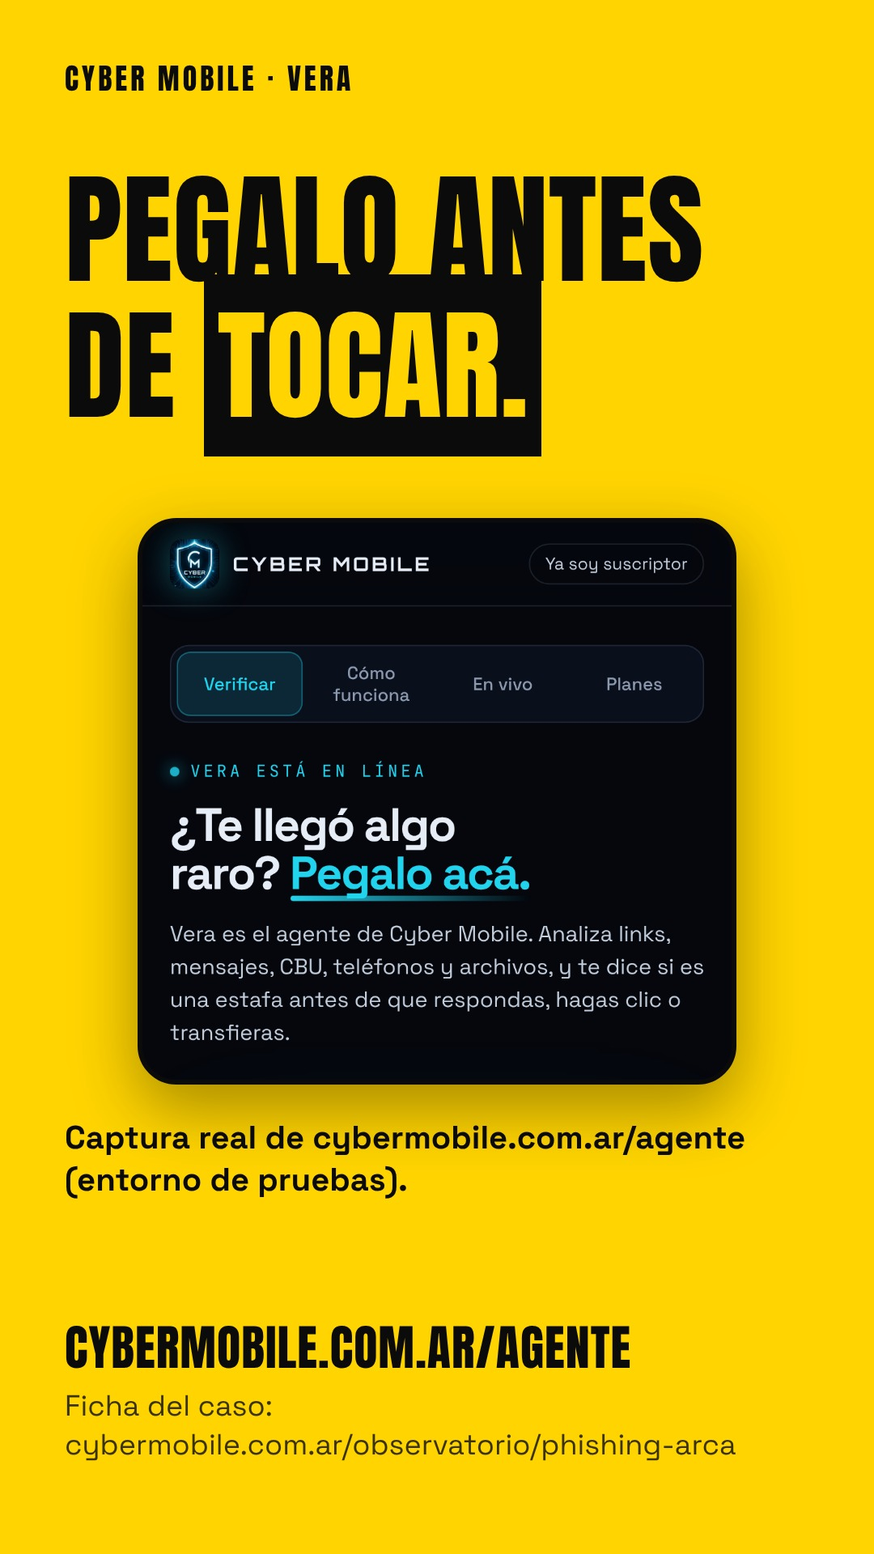
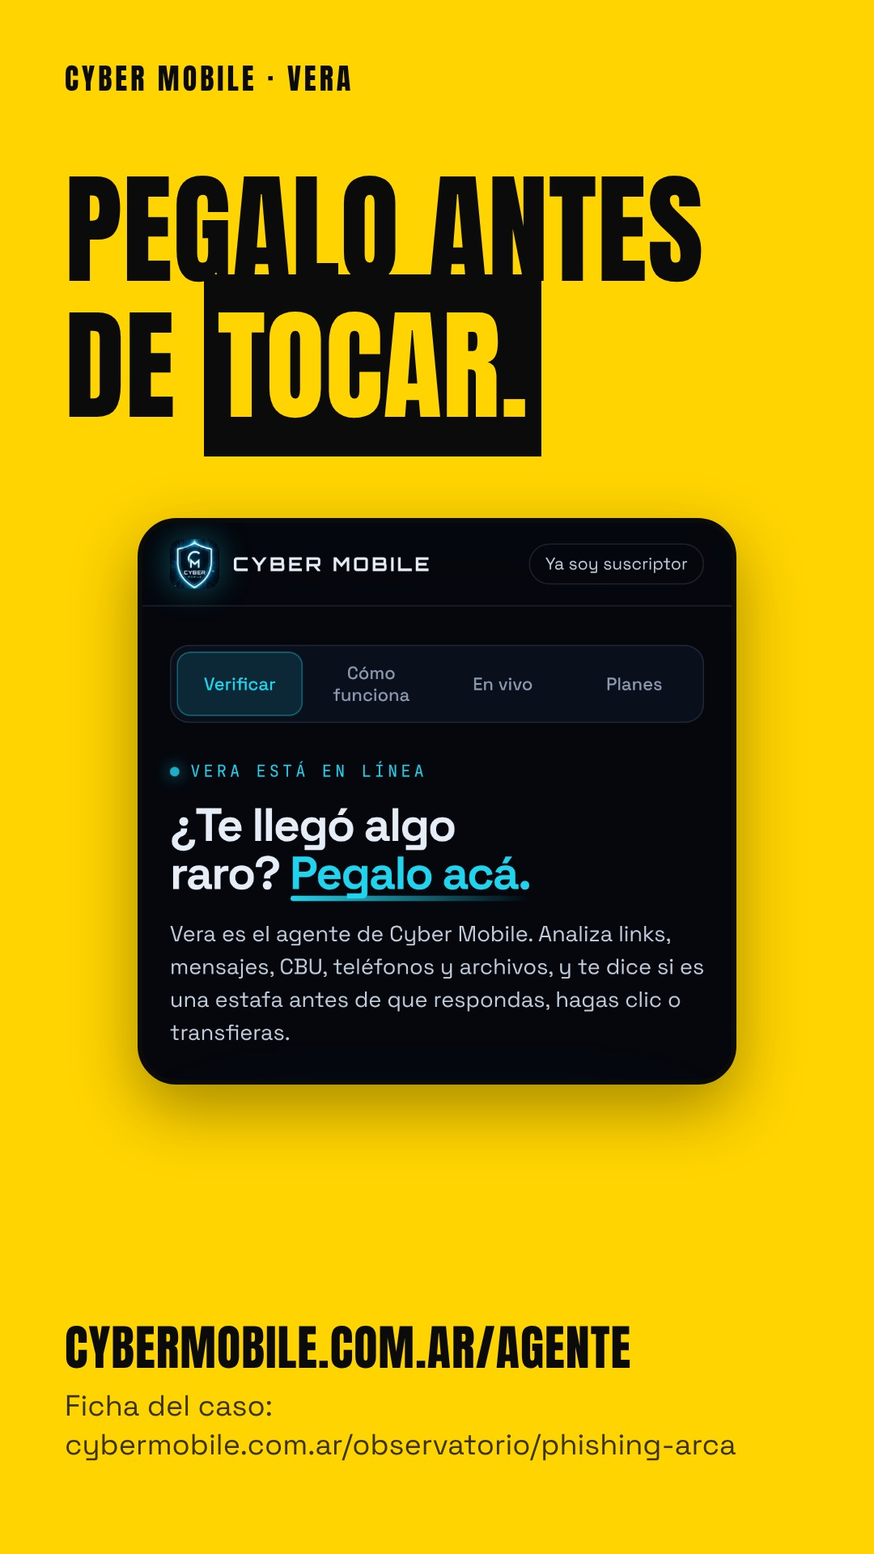
Redes: propuestas v3 con imágenes reales y corrección del set Qué es Vera

Changed region(s): [[0.0611, 0.7188, 0.8556, 0.7812]]

diff --git a/scripts/redes/propuestas/2026-11-20-v3/html/arca-f2.html b/scripts/redes/propuestas/2026-11-20-v3/html/arca-f2.html
@@ -1,0 +1,19 @@
+<html><head><meta charset=utf-8><style>
+@font-face{font-family:AN;src:url(/home/user/Cyber-Mobile/tarjetas/fuentes/Anton-Regular.ttf)}
+@font-face{font-family:SG;font-weight:700;src:url(/home/user/Cyber-Mobile/tarjetas/fuentes/SpaceGrotesk-Bold.ttf)}
+@font-face{font-family:SG;font-weight:400;src:url(/home/user/Cyber-Mobile/tarjetas/fuentes/SpaceGrotesk-Regular.ttf)}
+*{box-sizing:border-box;margin:0}body{width:1080px;height:1920px;overflow:hidden;font-family:SG,sans-serif;position:relative}
+.h{font-family:AN;text-transform:uppercase;line-height:1;letter-spacing:.5px}
+.pad{position:absolute;left:80px;right:80px}
+.brand{position:absolute;left:80px;top:70px;font-family:AN;font-size:34px;letter-spacing:4px}
+.tag{display:inline-block;font-family:AN;font-size:42px;padding:10px 26px;background:#ff2d1f;color:#fff;transform:rotate(-2deg);text-transform:uppercase}
+.mk{background:linear-gradient(transparent 55%,#ffd400 55%)}
+.src{font-size:29px;line-height:1.35}
+.url{font-family:AN;font-size:54px;letter-spacing:1px}
+.img{position:absolute;box-shadow:0 24px 70px rgba(0,0,0,.35);border:5px solid #0b0b0b;background:#fff}
+.img img{display:block;width:100%}
+.mkb{position:absolute;border:8px solid #ff2d1f;border-radius:22px;transform:rotate(-.8deg)}
+.mkl{position:absolute;font-family:AN;font-size:40px;background:#ff2d1f;color:#fff;padding:6px 20px;text-transform:uppercase;transform:rotate(-2deg);white-space:nowrap}
+body{background:#0b0b0b;color:#f1ebdf}</style></head><body><div class=brand>CYBER MOBILE · VERA</div><div class="pad" style="top:190px"><span class=tag style="background:#ffd400;color:#0b0b0b">Lo que mira Vera</span><div class=h style="font-size:104px;margin-top:30px">TRES SEÑALES<br><span style="color:#ffd400">EN UN SOLO MAIL.</span></div></div>
+ <div class="img" style="top:620px;left:190px;width:700px;height:1057px"><img src="/home/user/Cyber-Mobile/scripts/redes/propuestas/2026-11-20-v3/real/arca-mail.png"><div class=mkb style="left:14.364217252396166px;top:329.6996805111821px;width:675.7444089456869px;height:289.9616613418531px"></div><div class=mkl style="left:20px;top:303.6996805111821px;">Cobra “aranceles” por mail</div><div class=mkb style="left:14.364217252396166px;top:624.9073482428115px;width:675.7444089456869px;height:109.92971246006391px"></div><div class=mkl style="left:20px;top:598.9073482428115px;left:auto;right:10px;">Pide foto del DNI</div><div class=mkb style="left:14.364217252396166px;top:736.7284345047924px;width:675.7444089456869px;height:83.0926517571885px"></div><div class=mkl style="left:20px;top:710.7284345047924px;">Apura: 3 días</div></div>
+ <div class="pad src" style="bottom:95px;font-size:28px;color:#f1ebdf">ARCA lo dijo en sus redes: “Nunca solicitamos pagos ni datos personales por correo electrónico” (@ARCA_informa, según Infobae 05/11/2026).</div></body></html>

diff --git a/scripts/redes/propuestas/2026-11-20-v3/html/hotel-f2.html b/scripts/redes/propuestas/2026-11-20-v3/html/hotel-f2.html
@@ -1,0 +1,19 @@
+<html><head><meta charset=utf-8><style>
+@font-face{font-family:AN;src:url(/home/user/Cyber-Mobile/tarjetas/fuentes/Anton-Regular.ttf)}
+@font-face{font-family:SG;font-weight:700;src:url(/home/user/Cyber-Mobile/tarjetas/fuentes/SpaceGrotesk-Bold.ttf)}
+@font-face{font-family:SG;font-weight:400;src:url(/home/user/Cyber-Mobile/tarjetas/fuentes/SpaceGrotesk-Regular.ttf)}
+*{box-sizing:border-box;margin:0}body{width:1080px;height:1920px;overflow:hidden;font-family:SG,sans-serif;position:relative}
+.h{font-family:AN;text-transform:uppercase;line-height:1;letter-spacing:.5px}
+.pad{position:absolute;left:80px;right:80px}
+.brand{position:absolute;left:80px;top:70px;font-family:AN;font-size:34px;letter-spacing:4px}
+.tag{display:inline-block;font-family:AN;font-size:42px;padding:10px 26px;background:#ff2d1f;color:#fff;transform:rotate(-2deg);text-transform:uppercase}
+.mk{background:linear-gradient(transparent 55%,#ffd400 55%)}
+.src{font-size:29px;line-height:1.35}
+.url{font-family:AN;font-size:54px;letter-spacing:1px}
+.img{position:absolute;box-shadow:0 24px 70px rgba(0,0,0,.35);border:5px solid #0b0b0b;background:#fff}
+.img img{display:block;width:100%}
+.mkb{position:absolute;border:8px solid #ff2d1f;border-radius:22px;transform:rotate(-.8deg)}
+.mkl{position:absolute;font-family:AN;font-size:40px;background:#ff2d1f;color:#fff;padding:6px 20px;text-transform:uppercase;transform:rotate(-2deg);white-space:nowrap}
+body{background:#f1ebdf;color:#0b0b0b}</style></head><body><div class=brand>CYBER MOBILE · VERA</div><div class="pad" style="top:190px"><span class=tag>Lo que mira Vera</span><div class=h style="font-size:104px;margin-top:30px">NOMBRE, FOTOS Y<br><span class=mk>PEDIDO DE PLATA.</span></div></div>
+ <div class="img" style="top:560px;left:190px;width:700px;height:906px"><img src="/home/user/Cyber-Mobile/scripts/redes/propuestas/2026-11-20-v3/real/hotel-instagram.png"><div class=mkb style="left:129.68115942028984px;top:73.15942028985508px;width:363.82608695652175px;height:73.97101449275362px"></div><div class=mkl style="left:20px;top:149.1304347826087px;left:auto;right:10px;">Usurpa el nombre</div><div class=mkb style="left:28.231884057971016px;top:365.18840579710144px;width:631.9420289855072px;height:92.08695652173913px"></div><div class=mkl style="left:20px;top:459.27536231884056px;">Copia dirección y fotos</div></div>
+ <div class="pad src" style="bottom:70px;font-size:28px">Según La Nación, pedían transferir $500.000 como seña para reservar durante la visita papal. El establecimiento real confirmó la suplantación.</div></body></html>

diff --git a/scripts/redes/propuestas/2026-11-20-v3/html/google-f2.html b/scripts/redes/propuestas/2026-11-20-v3/html/google-f2.html
@@ -1,0 +1,19 @@
+<html><head><meta charset=utf-8><style>
+@font-face{font-family:AN;src:url(/home/user/Cyber-Mobile/tarjetas/fuentes/Anton-Regular.ttf)}
+@font-face{font-family:SG;font-weight:700;src:url(/home/user/Cyber-Mobile/tarjetas/fuentes/SpaceGrotesk-Bold.ttf)}
+@font-face{font-family:SG;font-weight:400;src:url(/home/user/Cyber-Mobile/tarjetas/fuentes/SpaceGrotesk-Regular.ttf)}
+*{box-sizing:border-box;margin:0}body{width:1080px;height:1920px;overflow:hidden;font-family:SG,sans-serif;position:relative}
+.h{font-family:AN;text-transform:uppercase;line-height:1;letter-spacing:.5px}
+.pad{position:absolute;left:80px;right:80px}
+.brand{position:absolute;left:80px;top:70px;font-family:AN;font-size:34px;letter-spacing:4px}
+.tag{display:inline-block;font-family:AN;font-size:42px;padding:10px 26px;background:#ff2d1f;color:#fff;transform:rotate(-2deg);text-transform:uppercase}
+.mk{background:linear-gradient(transparent 55%,#ffd400 55%)}
+.src{font-size:29px;line-height:1.35}
+.url{font-family:AN;font-size:54px;letter-spacing:1px}
+.img{position:absolute;box-shadow:0 24px 70px rgba(0,0,0,.35);border:5px solid #0b0b0b;background:#fff}
+.img img{display:block;width:100%}
+.mkb{position:absolute;border:8px solid #ff2d1f;border-radius:22px;transform:rotate(-.8deg)}
+.mkl{position:absolute;font-family:AN;font-size:40px;background:#ff2d1f;color:#fff;padding:6px 20px;text-transform:uppercase;transform:rotate(-2deg);white-space:nowrap}
+body{background:#0b0b0b;color:#f1ebdf}</style></head><body><div class=brand>CYBER MOBILE · VERA</div><div class="pad" style="top:190px"><span class=tag style="background:#ffd400;color:#0b0b0b">Lo que mira Vera</span><div class=h style="font-size:104px;margin-top:30px">EL BOTÓN<br><span style="color:#ffd400">ES LA TRAMPA.</span></div></div>
+ <div class="img" style="top:560px;left:100px;width:880px;height:597px"><img src="/home/user/Cyber-Mobile/scripts/redes/propuestas/2026-11-20-v3/real/google-mail.png"><div class=mkb style="left:260.47457627118644px;top:484.20338983050846px;width:359.0508474576271px;height:93.55932203389831px"></div><div class=mkl style="left:60px;top:458.20338983050846px;">Lleva a una web falsa</div></div>
+ <div style="position:absolute;left:80px;right:80px;top:1250px;font-size:46px;line-height:1.3;font-weight:700">Simula un aviso de seguridad, apura a “comprobar actividad” y, según la nota, termina en una página que imita a Google para robar usuario y contraseña.</div></body></html>

diff --git a/scripts/redes/propuestas/2026-11-20-v3/html/hotel-f3.html b/scripts/redes/propuestas/2026-11-20-v3/html/hotel-f3.html
@@ -1,0 +1,19 @@
+<html><head><meta charset=utf-8><style>
+@font-face{font-family:AN;src:url(/home/user/Cyber-Mobile/tarjetas/fuentes/Anton-Regular.ttf)}
+@font-face{font-family:SG;font-weight:700;src:url(/home/user/Cyber-Mobile/tarjetas/fuentes/SpaceGrotesk-Bold.ttf)}
+@font-face{font-family:SG;font-weight:400;src:url(/home/user/Cyber-Mobile/tarjetas/fuentes/SpaceGrotesk-Regular.ttf)}
+*{box-sizing:border-box;margin:0}body{width:1080px;height:1920px;overflow:hidden;font-family:SG,sans-serif;position:relative}
+.h{font-family:AN;text-transform:uppercase;line-height:1;letter-spacing:.5px}
+.pad{position:absolute;left:80px;right:80px}
+.brand{position:absolute;left:80px;top:70px;font-family:AN;font-size:34px;letter-spacing:4px}
+.tag{display:inline-block;font-family:AN;font-size:42px;padding:10px 26px;background:#ff2d1f;color:#fff;transform:rotate(-2deg);text-transform:uppercase}
+.mk{background:linear-gradient(transparent 55%,#ffd400 55%)}
+.src{font-size:29px;line-height:1.35}
+.url{font-family:AN;font-size:54px;letter-spacing:1px}
+.img{position:absolute;box-shadow:0 24px 70px rgba(0,0,0,.35);border:5px solid #0b0b0b;background:#fff}
+.img img{display:block;width:100%}
+.mkb{position:absolute;border:8px solid #ff2d1f;border-radius:22px;transform:rotate(-.8deg)}
+.mkl{position:absolute;font-family:AN;font-size:40px;background:#ff2d1f;color:#fff;padding:6px 20px;text-transform:uppercase;transform:rotate(-2deg);white-space:nowrap}
+body{background:#19e6c4;color:#0b0b0b}</style></head><body><div class=brand>CYBER MOBILE · VERA</div><div class="pad" style="top:190px"><div class=h style="font-size:150px">ANTES DE<br>TRANSFERIR,<br>VERIFICÁ.</div><div style="font-size:48px;line-height:1.3;font-weight:700;margin-top:50px">Confirmá el alojamiento por el sitio y teléfono oficiales, y no pagues una seña a una cuenta de un tercero.</div>
+ <div style="font-size:48px;line-height:1.3;font-weight:700;margin-top:46px;border-top:8px solid #0b0b0b;padding-top:34px">Pegá el perfil o el link en Vera y mirá qué encuentra.</div></div>
+ <div class="pad url" style="bottom:200px;font-size:62px">CYBERMOBILE.COM.AR/AGENTE</div><div class="pad src" style="bottom:90px;font-size:34px;font-weight:700">Modalidad: cybermobile.com.ar/observatorio/alquiler-inexistente</div></body></html>

diff --git a/scripts/redes/propuestas/2026-11-20-v3/html/arca-f3.html b/scripts/redes/propuestas/2026-11-20-v3/html/arca-f3.html
@@ -1,0 +1,19 @@
+<html><head><meta charset=utf-8><style>
+@font-face{font-family:AN;src:url(/home/user/Cyber-Mobile/tarjetas/fuentes/Anton-Regular.ttf)}
+@font-face{font-family:SG;font-weight:700;src:url(/home/user/Cyber-Mobile/tarjetas/fuentes/SpaceGrotesk-Bold.ttf)}
+@font-face{font-family:SG;font-weight:400;src:url(/home/user/Cyber-Mobile/tarjetas/fuentes/SpaceGrotesk-Regular.ttf)}
+*{box-sizing:border-box;margin:0}body{width:1080px;height:1920px;overflow:hidden;font-family:SG,sans-serif;position:relative}
+.h{font-family:AN;text-transform:uppercase;line-height:1;letter-spacing:.5px}
+.pad{position:absolute;left:80px;right:80px}
+.brand{position:absolute;left:80px;top:70px;font-family:AN;font-size:34px;letter-spacing:4px}
+.tag{display:inline-block;font-family:AN;font-size:42px;padding:10px 26px;background:#ff2d1f;color:#fff;transform:rotate(-2deg);text-transform:uppercase}
+.mk{background:linear-gradient(transparent 55%,#ffd400 55%)}
+.src{font-size:29px;line-height:1.35}
+.url{font-family:AN;font-size:54px;letter-spacing:1px}
+.img{position:absolute;box-shadow:0 24px 70px rgba(0,0,0,.35);border:5px solid #0b0b0b;background:#fff}
+.img img{display:block;width:100%}
+.mkb{position:absolute;border:8px solid #ff2d1f;border-radius:22px;transform:rotate(-.8deg)}
+.mkl{position:absolute;font-family:AN;font-size:40px;background:#ff2d1f;color:#fff;padding:6px 20px;text-transform:uppercase;transform:rotate(-2deg);white-space:nowrap}
+body{background:#ffd400;color:#0b0b0b}</style></head><body><div class=brand>CYBER MOBILE · VERA</div><div class="pad" style="top:190px"><div class=h style="font-size:150px">NO PAGUES.<br>NO MANDES<br>EL DNI.</div><div style="font-size:50px;line-height:1.3;font-weight:700;margin-top:50px">Reenvialo a phishing@arca.gob.ar y consultá tus avisos solo en tu Domicilio Fiscal Electrónico.</div>
+ <div style="font-size:50px;line-height:1.3;font-weight:700;margin-top:50px;border-top:8px solid #0b0b0b;padding-top:36px">¿Te llegó algo parecido? Pegalo en Vera antes de tocar nada.</div></div>
+ <div class="pad url" style="bottom:230px;font-size:62px">CYBERMOBILE.COM.AR/AGENTE</div><div class="pad src" style="bottom:130px;font-size:36px;font-weight:700">Ficha del caso: cybermobile.com.ar/observatorio/phishing-arca</div></body></html>

diff --git a/scripts/redes/propuestas/2026-11-20-v3/html/google-f3.html b/scripts/redes/propuestas/2026-11-20-v3/html/google-f3.html
@@ -1,0 +1,19 @@
+<html><head><meta charset=utf-8><style>
+@font-face{font-family:AN;src:url(/home/user/Cyber-Mobile/tarjetas/fuentes/Anton-Regular.ttf)}
+@font-face{font-family:SG;font-weight:700;src:url(/home/user/Cyber-Mobile/tarjetas/fuentes/SpaceGrotesk-Bold.ttf)}
+@font-face{font-family:SG;font-weight:400;src:url(/home/user/Cyber-Mobile/tarjetas/fuentes/SpaceGrotesk-Regular.ttf)}
+*{box-sizing:border-box;margin:0}body{width:1080px;height:1920px;overflow:hidden;font-family:SG,sans-serif;position:relative}
+.h{font-family:AN;text-transform:uppercase;line-height:1;letter-spacing:.5px}
+.pad{position:absolute;left:80px;right:80px}
+.brand{position:absolute;left:80px;top:70px;font-family:AN;font-size:34px;letter-spacing:4px}
+.tag{display:inline-block;font-family:AN;font-size:42px;padding:10px 26px;background:#ff2d1f;color:#fff;transform:rotate(-2deg);text-transform:uppercase}
+.mk{background:linear-gradient(transparent 55%,#ffd400 55%)}
+.src{font-size:29px;line-height:1.35}
+.url{font-family:AN;font-size:54px;letter-spacing:1px}
+.img{position:absolute;box-shadow:0 24px 70px rgba(0,0,0,.35);border:5px solid #0b0b0b;background:#fff}
+.img img{display:block;width:100%}
+.mkb{position:absolute;border:8px solid #ff2d1f;border-radius:22px;transform:rotate(-.8deg)}
+.mkl{position:absolute;font-family:AN;font-size:40px;background:#ff2d1f;color:#fff;padding:6px 20px;text-transform:uppercase;transform:rotate(-2deg);white-space:nowrap}
+body{background:#ffd400;color:#0b0b0b}</style></head><body><div class=brand>CYBER MOBILE · VERA</div><div class="pad" style="top:190px"><div class=h style="font-size:150px">NO TOQUES<br>EL BOTÓN.</div><div style="font-size:50px;line-height:1.3;font-weight:700;margin-top:50px">Revisá la actividad entrando vos a tu cuenta desde la app o el sitio oficial. Google solo pide la contraseña en accounts.google.com.</div>
+ <div style="font-size:50px;line-height:1.3;font-weight:700;margin-top:50px;border-top:8px solid #0b0b0b;padding-top:36px">Pegá el mail o el link en Vera y mirá qué encuentra.</div></div>
+ <div class="pad url" style="bottom:140px;font-size:62px">CYBERMOBILE.COM.AR/AGENTE</div></body></html>

diff --git a/scripts/redes/propuestas/2026-11-20-v3/html/arca-f1.html b/scripts/redes/propuestas/2026-11-20-v3/html/arca-f1.html
@@ -1,0 +1,19 @@
+<html><head><meta charset=utf-8><style>
+@font-face{font-family:AN;src:url(/home/user/Cyber-Mobile/tarjetas/fuentes/Anton-Regular.ttf)}
+@font-face{font-family:SG;font-weight:700;src:url(/home/user/Cyber-Mobile/tarjetas/fuentes/SpaceGrotesk-Bold.ttf)}
+@font-face{font-family:SG;font-weight:400;src:url(/home/user/Cyber-Mobile/tarjetas/fuentes/SpaceGrotesk-Regular.ttf)}
+*{box-sizing:border-box;margin:0}body{width:1080px;height:1920px;overflow:hidden;font-family:SG,sans-serif;position:relative}
+.h{font-family:AN;text-transform:uppercase;line-height:1;letter-spacing:.5px}
+.pad{position:absolute;left:80px;right:80px}
+.brand{position:absolute;left:80px;top:70px;font-family:AN;font-size:34px;letter-spacing:4px}
+.tag{display:inline-block;font-family:AN;font-size:42px;padding:10px 26px;background:#ff2d1f;color:#fff;transform:rotate(-2deg);text-transform:uppercase}
+.mk{background:linear-gradient(transparent 55%,#ffd400 55%)}
+.src{font-size:29px;line-height:1.35}
+.url{font-family:AN;font-size:54px;letter-spacing:1px}
+.img{position:absolute;box-shadow:0 24px 70px rgba(0,0,0,.35);border:5px solid #0b0b0b;background:#fff}
+.img img{display:block;width:100%}
+.mkb{position:absolute;border:8px solid #ff2d1f;border-radius:22px;transform:rotate(-.8deg)}
+.mkl{position:absolute;font-family:AN;font-size:40px;background:#ff2d1f;color:#fff;padding:6px 20px;text-transform:uppercase;transform:rotate(-2deg);white-space:nowrap}
+body{background:#f1ebdf;color:#0b0b0b}</style></head><body><div class=brand>CYBER MOBILE · VERA</div><div class="pad" style="top:190px"><span class=tag>Mail real · Observatorio #4</span><div class=h style="font-size:96px;margin-top:30px">“LA ENCOMIENDA <span class=mk>ESTÁ RETENIDA.</span>” NO LO ESCRIBIÓ ARCA.</div></div>
+ <div class="img" style="top:640px;left:190px;width:700px;height:1057px"><img src="/home/user/Cyber-Mobile/scripts/redes/propuestas/2026-11-20-v3/real/arca-mail.png"></div>
+ <div class="pad src" style="bottom:95px;font-size:27px">Fuente: Infobae, 05/11/2026 (hace 15 días). Mail apócrifo con el sello “FALSO” de la nota; datos tapados en origen.</div></body></html>

diff --git a/scripts/redes/propuestas/2026-11-20-v3/html/google-f1.html b/scripts/redes/propuestas/2026-11-20-v3/html/google-f1.html
@@ -1,0 +1,19 @@
+<html><head><meta charset=utf-8><style>
+@font-face{font-family:AN;src:url(/home/user/Cyber-Mobile/tarjetas/fuentes/Anton-Regular.ttf)}
+@font-face{font-family:SG;font-weight:700;src:url(/home/user/Cyber-Mobile/tarjetas/fuentes/SpaceGrotesk-Bold.ttf)}
+@font-face{font-family:SG;font-weight:400;src:url(/home/user/Cyber-Mobile/tarjetas/fuentes/SpaceGrotesk-Regular.ttf)}
+*{box-sizing:border-box;margin:0}body{width:1080px;height:1920px;overflow:hidden;font-family:SG,sans-serif;position:relative}
+.h{font-family:AN;text-transform:uppercase;line-height:1;letter-spacing:.5px}
+.pad{position:absolute;left:80px;right:80px}
+.brand{position:absolute;left:80px;top:70px;font-family:AN;font-size:34px;letter-spacing:4px}
+.tag{display:inline-block;font-family:AN;font-size:42px;padding:10px 26px;background:#ff2d1f;color:#fff;transform:rotate(-2deg);text-transform:uppercase}
+.mk{background:linear-gradient(transparent 55%,#ffd400 55%)}
+.src{font-size:29px;line-height:1.35}
+.url{font-family:AN;font-size:54px;letter-spacing:1px}
+.img{position:absolute;box-shadow:0 24px 70px rgba(0,0,0,.35);border:5px solid #0b0b0b;background:#fff}
+.img img{display:block;width:100%}
+.mkb{position:absolute;border:8px solid #ff2d1f;border-radius:22px;transform:rotate(-.8deg)}
+.mkl{position:absolute;font-family:AN;font-size:40px;background:#ff2d1f;color:#fff;padding:6px 20px;text-transform:uppercase;transform:rotate(-2deg);white-space:nowrap}
+body{background:#f1ebdf;color:#0b0b0b}</style></head><body><div class=brand>CYBER MOBILE · VERA</div><div class="pad" style="top:190px"><span class=tag>Mail real · aviso falso de Google</span><div class=h style="font-size:100px;margin-top:30px">“NUEVO INICIO DE SESIÓN.” <span class=mk>NO FUE GOOGLE.</span></div></div>
+ <div class="img" style="top:680px;left:100px;width:880px;height:597px"><img src="/home/user/Cyber-Mobile/scripts/redes/propuestas/2026-11-20-v3/real/google-mail.png"></div>
+ <div class="pad src" style="bottom:110px;font-size:27px">Fuente: La Gaceta (Tucumán), 28/10/2026 (hace 23 días); imagen: Redes.Zone. Dirección tapada en origen.</div></body></html>

diff --git a/scripts/redes/propuestas/2026-11-20-v3/html/hotel-f1.html b/scripts/redes/propuestas/2026-11-20-v3/html/hotel-f1.html
@@ -1,0 +1,19 @@
+<html><head><meta charset=utf-8><style>
+@font-face{font-family:AN;src:url(/home/user/Cyber-Mobile/tarjetas/fuentes/Anton-Regular.ttf)}
+@font-face{font-family:SG;font-weight:700;src:url(/home/user/Cyber-Mobile/tarjetas/fuentes/SpaceGrotesk-Bold.ttf)}
+@font-face{font-family:SG;font-weight:400;src:url(/home/user/Cyber-Mobile/tarjetas/fuentes/SpaceGrotesk-Regular.ttf)}
+*{box-sizing:border-box;margin:0}body{width:1080px;height:1920px;overflow:hidden;font-family:SG,sans-serif;position:relative}
+.h{font-family:AN;text-transform:uppercase;line-height:1;letter-spacing:.5px}
+.pad{position:absolute;left:80px;right:80px}
+.brand{position:absolute;left:80px;top:70px;font-family:AN;font-size:34px;letter-spacing:4px}
+.tag{display:inline-block;font-family:AN;font-size:42px;padding:10px 26px;background:#ff2d1f;color:#fff;transform:rotate(-2deg);text-transform:uppercase}
+.mk{background:linear-gradient(transparent 55%,#ffd400 55%)}
+.src{font-size:29px;line-height:1.35}
+.url{font-family:AN;font-size:54px;letter-spacing:1px}
+.img{position:absolute;box-shadow:0 24px 70px rgba(0,0,0,.35);border:5px solid #0b0b0b;background:#fff}
+.img img{display:block;width:100%}
+.mkb{position:absolute;border:8px solid #ff2d1f;border-radius:22px;transform:rotate(-.8deg)}
+.mkl{position:absolute;font-family:AN;font-size:40px;background:#ff2d1f;color:#fff;padding:6px 20px;text-transform:uppercase;transform:rotate(-2deg);white-space:nowrap}
+body{background:#0b0b0b;color:#f1ebdf}</style></head><body><div class=brand>CYBER MOBILE · VERA</div><div class="pad" style="top:190px"><span class=tag>Perfil real denunciado · Observatorio</span><div class=h style="font-size:104px;margin-top:30px">EL HOTEL <span style="color:#ffd400">NO ERA</span> EL HOTEL.</div></div>
+ <div class="img" style="top:620px;left:160px;width:760px;height:983px"><img src="/home/user/Cyber-Mobile/scripts/redes/propuestas/2026-11-20-v3/real/hotel-instagram.png"></div>
+ <div class="pad src" style="bottom:70px;font-size:26px">Fuente: La Nación, 13/10/2026 (hace 38 días). Captura de una víctima; seguidor de terceros tapado.</div></body></html>

diff --git a/scripts/redes/propuestas/2026-11-20-v2/html/vera-3.html b/scripts/redes/propuestas/2026-11-20-v2/html/vera-3.html
@@ -13,7 +13,7 @@
 .url{font-family:AN;font-size:56px;letter-spacing:1px}
 .brand{position:absolute;left:80px;top:70px;font-family:AN;font-size:36px;letter-spacing:4px}
 body{background:#19e6c4;color:#0b0b0b}</style></head><body><div class=brand>CYBER MOBILE · VERA</div><div class="pad" style="top:260px"><div class=h style="font-size:190px">SIN<br>REGISTRARTE.</div>
-<div style="font-size:64px;line-height:1.25;font-weight:700;margin-top:60px">Entrás a la web, pegás y analizás. Las primeras consultas son gratis.</div>
+<div style="font-size:64px;line-height:1.25;font-weight:700;margin-top:60px">Entrás a la web, pegás lo que te llegó y analizás.</div>
 <div style="font-size:50px;line-height:1.3;margin-top:70px;border-top:8px solid #0b0b0b;padding-top:40px">Lo que pegás o subís en la web <b>no se guarda</b> una vez entregado el resultado.</div></div>
 <div class="pad src" style="bottom:260px;font-size:34px;color:#0b0b0b">En WhatsApp, los datos técnicos del análisis se conservan hasta 30 días. Detalle en cybermobile.com.ar/privacidad</div>
 <div class="pad url" style="bottom:110px;font-size:56px">cybermobile.com.ar/agente</div></body></html>

diff --git a/scripts/redes/propuestas/2026-11-20-v2/html/caso-3.html b/scripts/redes/propuestas/2026-11-20-v2/html/caso-3.html
@@ -14,6 +14,5 @@
 .brand{position:absolute;left:80px;top:70px;font-family:AN;font-size:36px;letter-spacing:4px}
 body{background:#ffd400;color:#0b0b0b}</style></head><body><div class=brand>CYBER MOBILE · VERA</div><div class="pad" style="top:200px"><div class=h style="font-size:150px;line-height:1.12">PEGALO ANTES<br>DE <span style="background:#0b0b0b;color:#ffd400;padding:0 16px">TOCAR.</span></div></div>
 <div class="cap" style="top:640px;left:170px;width:740px;height:700px"><img src="/home/user/Cyber-Mobile/scripts/redes/propuestas/2026-11-20-v2/capturas/agente.png" style="width:100%;left:0px;top:0px"></div>
-<div class="pad" style="top:1380px;font-size:40px;font-weight:700;line-height:1.3">Captura real de cybermobile.com.ar/agente (entorno de pruebas).</div>
 <div class="pad url" style="bottom:210px;font-size:60px">CYBERMOBILE.COM.AR/AGENTE</div>
 <div class="pad src" style="bottom:110px;font-size:36px;color:#0b0b0b">Ficha del caso: cybermobile.com.ar/observatorio/phishing-arca</div></body></html>

diff --git a/scripts/redes/propuestas/2026-11-20-v2/html/vera-6.html b/scripts/redes/propuestas/2026-11-20-v2/html/vera-6.html
@@ -15,5 +15,4 @@
 body{background:#f1ebdf;color:#0b0b0b}</style></head><body><div class=brand>CYBER MOBILE · VERA</div><div class="pad" style="top:210px"><span class=tag>Cómo funciona</span>
 <div class=h style="font-size:140px;margin-top:40px">PEGÁS.<br>VERA INVESTIGA.<br><span class=mk>VOS DECIDÍS.</span></div></div>
 <div class="cap" style="top:860px;left:170px;width:740px;height:640px"><img src="/home/user/Cyber-Mobile/scripts/redes/propuestas/2026-11-20-v2/capturas/agente-como.png" style="width:100%;left:0px;top:-520px"></div>
-<div class="pad" style="top:1530px;font-size:32px;font-weight:700">Captura real de cybermobile.com.ar/agente (entorno de pruebas).</div>
 <div class="pad url" style="bottom:90px;font-size:50px">PROBALA: CYBERMOBILE.COM.AR/AGENTE</div></body></html>
